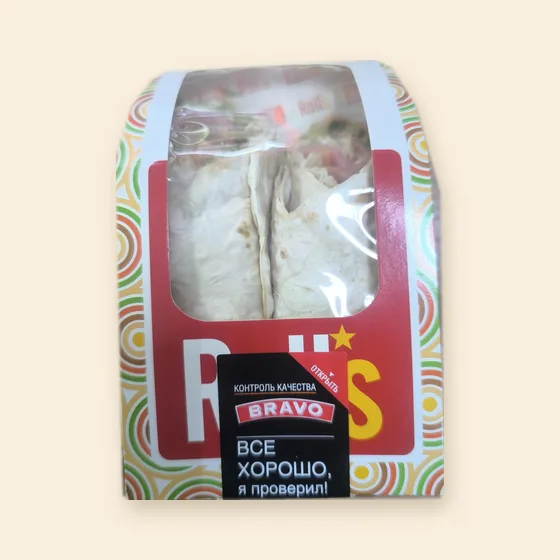
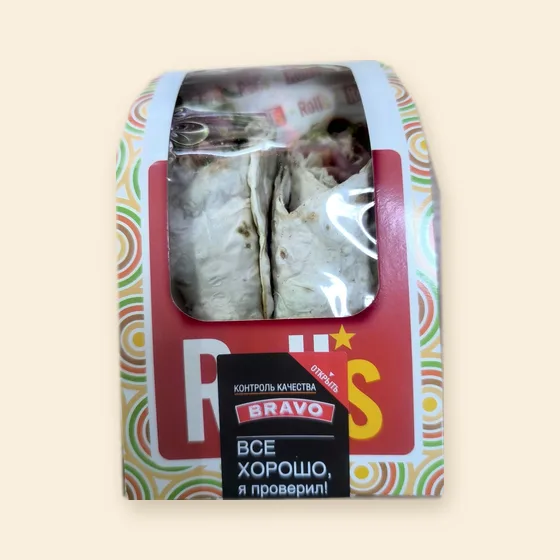
Bravo: Chester Burger + smoked-chicken roll (new category Роллы), roll film haze reduced; club sandwich postponed
Claude-Session: https://claude.ai/code/session_01BGg67Q4fbi3hakZB47nb2n

Changed region(s): [[0.2732, 0.1214, 0.6982, 0.6071]]

diff --git a/products.js b/products.js
@@ -114,10 +114,7 @@ const PRODUCTS = [
   {name:"Честер бургер", brand:"Bravo", category:"Бургеры", weight:"", price:null, labels:["halal"], image:"img/39.webp",
    composition:"", shelfLife:"", nutrition:"",
    kk:{name:"Честер бургер"}},
-  {name:"Сэндвич Клаб", brand:"Bravo", category:"Сэндвичи", weight:"160 г", price:null, labels:["halal"], image:"img/40.webp",
-   composition:"Копчёная курица, тосты, огурец, листья салата, майонез, кетчуп.", shelfLife:"", nutrition:"",
-   kk:{name:"Клаб сэндвичі", composition:"Ысталған тауық еті, тосты, қияр, салат жапырақтары, майонез, кетчуп."}},
-  {name:"Ролл с копчёной курицей", brand:"Bravo", category:"Донер", weight:"200 г", price:null, labels:[], image:"img/41.webp",
+  {name:"Ролл с копчёной курицей", brand:"Bravo", category:"Роллы", weight:"200 г", price:null, labels:[], image:"img/41.webp",
    composition:"Лаваш, копчёный куриный рулет, пекинская капуста, соус.", shelfLife:"", nutrition:"На 100 г: белки 7,94 г, жиры 11,04 г, углеводы 22,88 г, 226 ккал",
    kk:{name:"Ысталған тауықты ролл", composition:"Лаваш, ысталған тауық етінен рулет, пекин қырыққабат, соус.", nutrition:"100 г-да: ақуыз 7,94 г, май 11,04 г, көмірсу 22,88 г, 226 ккал"}}
 ];

diff --git a/config.js b/config.js
@@ -36,10 +36,10 @@ const BRAND = {
 const METRIKA_ID = 113767885;
 
 /* Названия разделов на казахском */
-const CAT_KK = {"Сэндвичи":"Сэндвичтер","Панини":"Панини","Хот-доги":"Хот-догтар","Бургеры":"Бургерлер","Донер":"Дөнер","Кимпаб":"Кимпаб","Онигири":"Онигири","Пицца":"Пицца"};
+const CAT_KK = {"Сэндвичи":"Сэндвичтер","Панини":"Панини","Хот-доги":"Хот-догтар","Бургеры":"Бургерлер","Донер":"Дөнер","Кимпаб":"Кимпаб","Роллы":"Роллдар","Онигири":"Онигири","Пицца":"Пицца"};
 
 /* Короткие названия разделов для карточек (убираем повтор слова в названии товара) */
-const CAT_WORD = {"Сэндвичи":"Сэндвич","Панини":"Панини","Хот-доги":"Хот-дог","Кимпаб":"Кимпаб","Онигири":"Онигири","Пицца":"Пицца","Бургеры":"Бургер","Донер":"Донер"};
+const CAT_WORD = {"Сэндвичи":"Сэндвич","Панини":"Панини","Хот-доги":"Хот-дог","Кимпаб":"Кимпаб","Онигири":"Онигири","Пицца":"Пицца","Бургеры":"Бургер","Донер":"Донер","Роллы":"Ролл"};
 
 /* Сколько дней показывается метка «Новинка» */
 const NEW_DAYS = 14;
